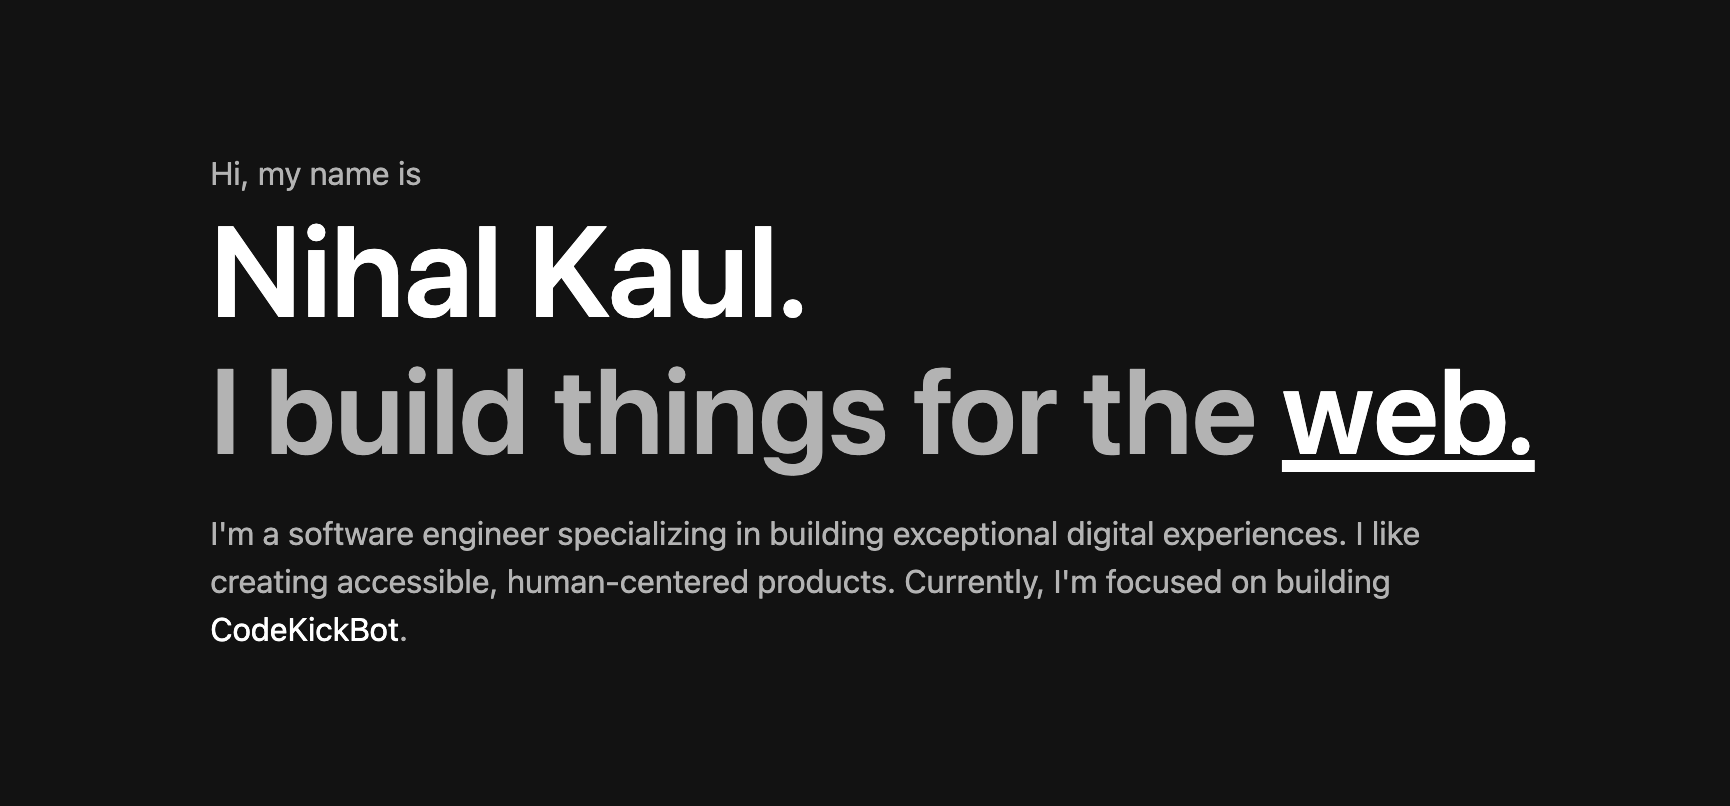
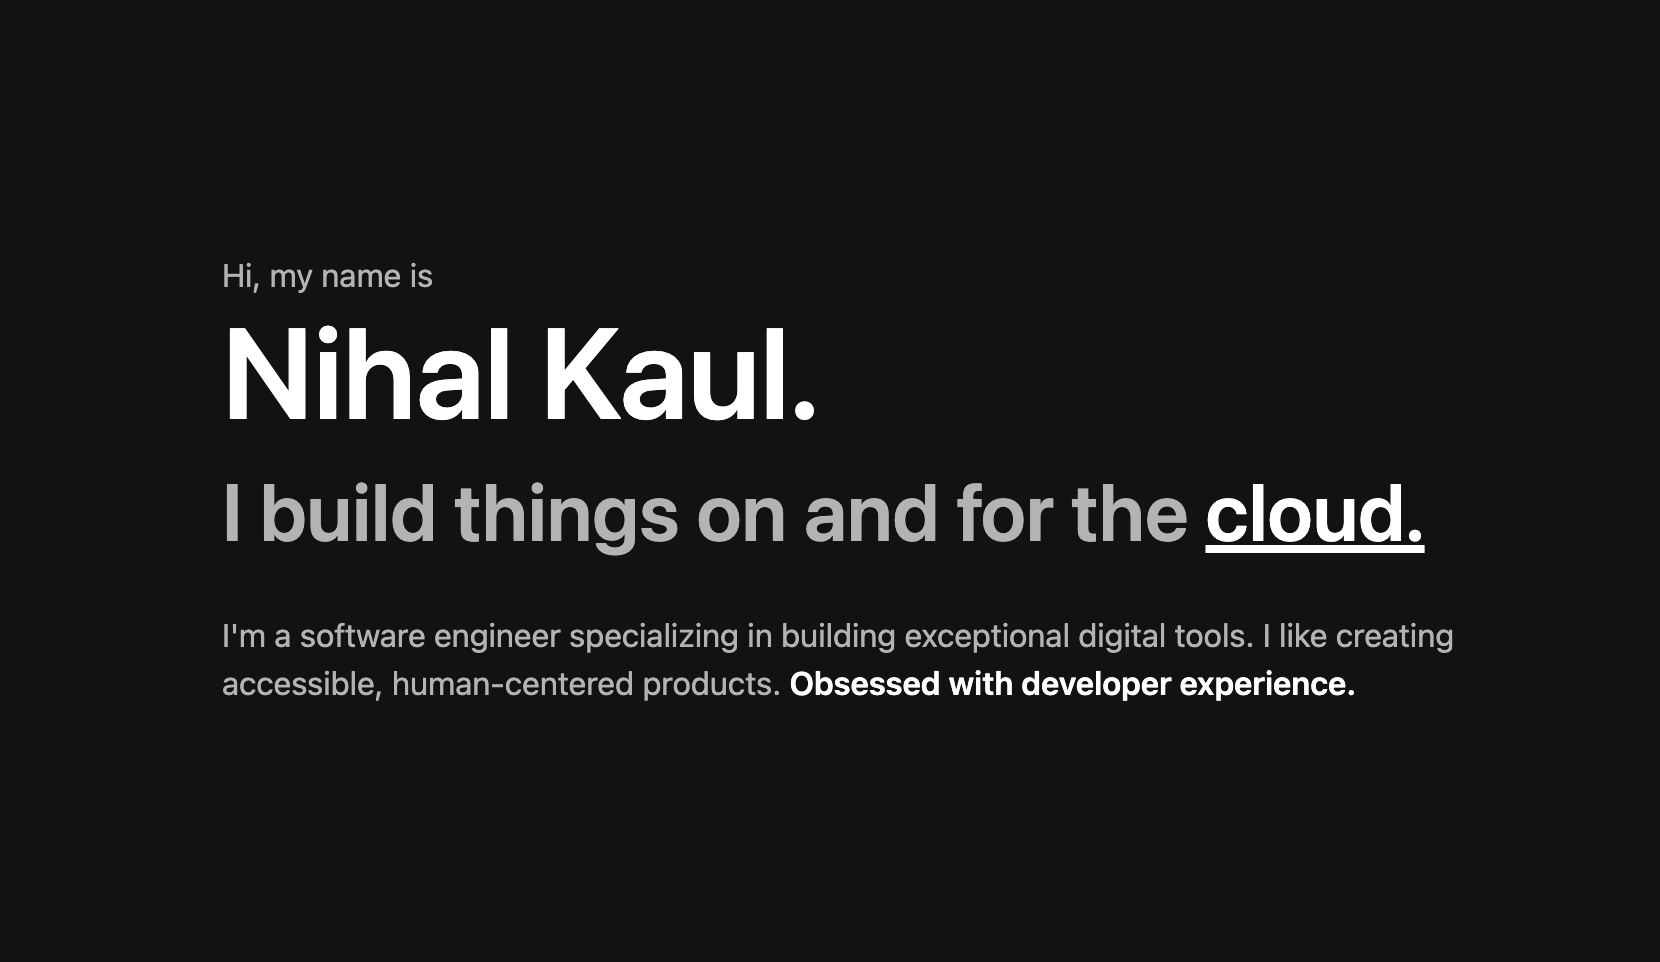
updates

Changed region(s): [[0.1229, 0.2792, 0.891, 0.5893], [0.1229, 0.6514, 0.891, 0.8065], [0.1229, 0.1861, 0.2458, 0.2481]]

diff --git a/src/components/startups/index.js b/src/components/startups/index.js
@@ -1,0 +1,90 @@
+import Icon from "../icons/icon";
+
+const Startups = () => {
+  return (
+    <div id="startups" className="p-4 md:p-24 my-12 md:my-0">
+      <div className="flex items-center text-xl">
+        <div>
+          <span className="text-primary">03.</span>
+          <span className="text-secondary font-semibold ml-2">
+            Startups I have helped go 0 to 1
+          </span>
+        </div>
+        <div className="hidden md:block h-[1px] w-2/5 bg-secondary ml-4" />
+      </div>
+
+      <div className="my-8">
+        <div className="text-2xl font-semibold text-center my-12">
+          My best work so far
+        </div>
+        <div className="flex flex-col">
+          <div className="flex justify-between items-center mt-2">
+            <a
+              href="https://www.cherrysubscription.com/"
+              rel="noopener noreferer"
+              target="_blank"
+              className="text-primary font-semibold text-2xl w-fit"
+            >
+              Cherry Subscription
+            </a>
+
+            <a
+              href="https://www.cherrysubscription.com/"
+              rel="noopener noreferer"
+              target="_blank"
+            >
+              <Icon
+                name="External"
+                width={24}
+                height={24}
+                className="text-secondary hover:text-primary cursor-pointer"
+              />
+            </a>
+          </div>
+
+          <p className="mt-2">
+            Leading in person subscription platform designed for small
+            businesses. Cherry is an{" "}
+            <a
+              href="https://www.beondeck.com/"
+              rel="noopener noreferer"
+              target="_blank"
+              className="text-primary font-medium"
+            >
+              On Deck (ODX 1)
+            </a>{" "}
+            backed startup.
+          </p>
+        </div>
+        {/* eslint-disable-next-line */}
+        <img
+          src="/images/cherry.png"
+          alt="Cherry Subscription"
+          className="rounded-md mt-4"
+        />
+        <p className="mt-8 italic">
+          I highly recommend Nihal to anyone who is looking for an amazing lead
+          engineer and phenomenal teammate who can bring concepts to life.
+          He&apos;s that good. Not only is he great to work with but he knows
+          his stuff. One of the best things about Nihal is his analytical
+          thinking, he thinks about the purpose behind product and user
+          experience. As well, Nihal, is highly responsible and everything you
+          could want in a team member. I would trust any project to him and
+          believe he is going to make an imprint in tech. I would definitely
+          work with him again in the future.
+        </p>
+
+        <a
+          href="https://www.linkedin.com/in/bentaran/"
+          rel="noopener noreferer"
+          target="_blank"
+          className="text-primary"
+        >
+          - Benjamin Taran (Founder & CEO @ Cherry Subscription)
+        </a>
+      </div>
+    </div>
+  );
+};
+
+export default Startups;

diff --git a/src/utils/config.js b/src/utils/config.js
@@ -13,11 +13,16 @@ export const NavList = [
   },
   {
     id: "3",
+    title: "Startups",
+    link: "/#startups",
+  },
+  {
+    id: "4",
     title: "Work",
     link: "/#work",
   },
   {
-    id: "4",
+    id: "5",
     title: "Contact",
     link: "/#contact",
   },
@@ -56,6 +61,11 @@ export const SkillsList = [
   "Node.js",
   "MongoDB",
   "AWS",
+  "GCP",
+  "Azure",
+  "Docker",
+  "Terraform",
+  "Kubernetes",
 ];
 
 export const JobsList = [
@@ -63,7 +73,7 @@ export const JobsList = [
     title: "Lead Engineer",
     company: "CodeKickBot",
     location: "San Jose, CA",
-    date: "Aug 2022 - Present (Personal Project)",
+    date: "Forever (Personal Project)",
     link: "https://codekickbot.com/",
     accomplishments: [
       "Engineered a product that helps boost developer productivity, available in the Slack App Directory",
@@ -110,13 +120,6 @@ export const JobsList = [
 ];
 
 export const ProjectList = [
-  {
-    title: "Text-To-Pay",
-    description: "A dry run of what the buying experience with SMS looks like.",
-    github: "https://github.com/nihalwashere/text-to-pay",
-    external: "",
-    tags: ["Node.js", "Express.js", "MongoDB", "Twilio"],
-  },
   {
     title: "Next.js Serverless Functions",
     description:

diff --git a/src/components/hero/index.js b/src/components/hero/index.js
@@ -6,25 +6,18 @@ const Hero = () => (
       Nihal Kaul.
     </div>
 
-    <div className="text-3xl md:text-[60px] font-semibold my-2 md:my-4">
-      I build things for the{" "}
-      <span className="text-primary underline">web.</span>
+    <div className="text-3xl md:text-[40px] font-semibold my-2 md:my-4">
+      I build things on and for the{" "}
+      <span className="text-primary underline">cloud.</span>
     </div>
 
     <div className="w-11/12 md:w-3/4 my-4">
       <p>
         I&apos;m a software engineer specializing in building exceptional
-        digital experiences. I like creating accessible, human-centered
-        products. Currently, I&apos;m focused on building{" "}
-        <a
-          className="text-primary font-normal"
-          rel="noopener noreferer"
-          href="https://codekickbot.com"
-          target="_blank"
-        >
-          CodeKickBot
-        </a>
-        .
+        digital tools. I like creating accessible, human-centered products.{" "}
+        <span className="text-primary font-semibold">
+          Obsessed with developer experience.
+        </span>
       </p>
     </div>
   </div>

diff --git a/src/components/work/index.js b/src/components/work/index.js
@@ -5,7 +5,7 @@ const Work = () => {
   return (
     <div id="work" className="p-4 md:p-24 my-12 md:my-0">
       <div className="flex items-center text-xl">
-        <span className="text-primary">03.</span>
+        <span className="text-primary">04.</span>
         <span className="text-secondary font-semibold ml-2">
           Some Things I&apos;have Built
         </span>
@@ -54,7 +54,7 @@ const Work = () => {
         />
       </div>
 
-      <hr className="" />
+      <hr />
 
       <div className="my-8">
         <div className="flex flex-col">
@@ -114,7 +114,7 @@ const Work = () => {
         />
       </div>
 
-      <hr className="" />
+      <hr />
 
       <div className="my-8">
         <div className="flex flex-col">
@@ -178,7 +178,7 @@ const Work = () => {
 
         {/* <div className="flex justify-center mt-2">
             <a className="w-fit text-sm hover:underline" href="/archive">
-              <span className="">view archive</span>
+              <span>view archive</span>
             </a>
           </div> */}
       </div>

diff --git a/src/components/about/index.js b/src/components/about/index.js
@@ -12,16 +12,16 @@ const About = () => {
       <div className="w-11/12 md:w-3/4 my-4">
         <p>
           Hello! My name is <span className="text-primary">Nihal</span> and I
-          enjoy creating things that live on the internet. My interest in web
-          development started back in 2016 when I was introduced to React.js by
-          a friend.
+          enjoy building things that live in the cloud. My interest in cloud
+          development started back in 2016 when an apple from the cloud fell on
+          my head.
         </p>
 
         <p className="my-4">
-          Here are a few technologies I&apos;ve been working with recently:
+          Here are a few technologies I&apos;ve been working with:
         </p>
 
-        <ul className="grid grid-cols-2 gap-2 px-4">
+        <ul className="grid grid-cols-2 gap-2 md:grid-cols-3 md:gap-3 px-4">
           {SkillsList.map((skill) => (
             <li key={skill}>{skill}</li>
           ))}

diff --git a/src/app/page.tsx b/src/app/page.tsx
@@ -3,6 +3,7 @@ import Hero from "../components/hero";
 import Social from "../components/social";
 import About from "../components/about";
 import Experience from "../components/experience";
+import Startups from "../components/startups";
 import Work from "../components/work";
 import Contact from "../components/contact";
 
@@ -16,6 +17,7 @@ export default function Home() {
           <Hero />
           <About />
           <Experience />
+          <Startups />
           <Work />
           <Contact />
         </div>

diff --git a/src/components/contact/index.js b/src/components/contact/index.js
@@ -4,7 +4,7 @@ const Contact = () => (
   <div id="contact" className="flex justify-center items-center p-4 md:p-24">
     <div className="flex flex-col justify-center items-center">
       <div className="text-xl">
-        <span className="text-primary">04.</span>
+        <span className="text-primary">05.</span>
         <span className="text-secondary font-semibold ml-2">
           What&apos;s Next?
         </span>

diff --git a/src/app/layout.tsx b/src/app/layout.tsx
@@ -2,9 +2,8 @@ import "./globals.css";
 
 const title = "Nihal Kaul";
 const description =
-  "Nihal is a software engineer who specializes in building exceptional digital experiences.";
+  "Nihal is a software engineer who specializes in building exceptional digital tools.";
 const url = "https://nihalwashere.xyz/";
-const image = "/about.png";
 
 export const metadata = {
   title,
